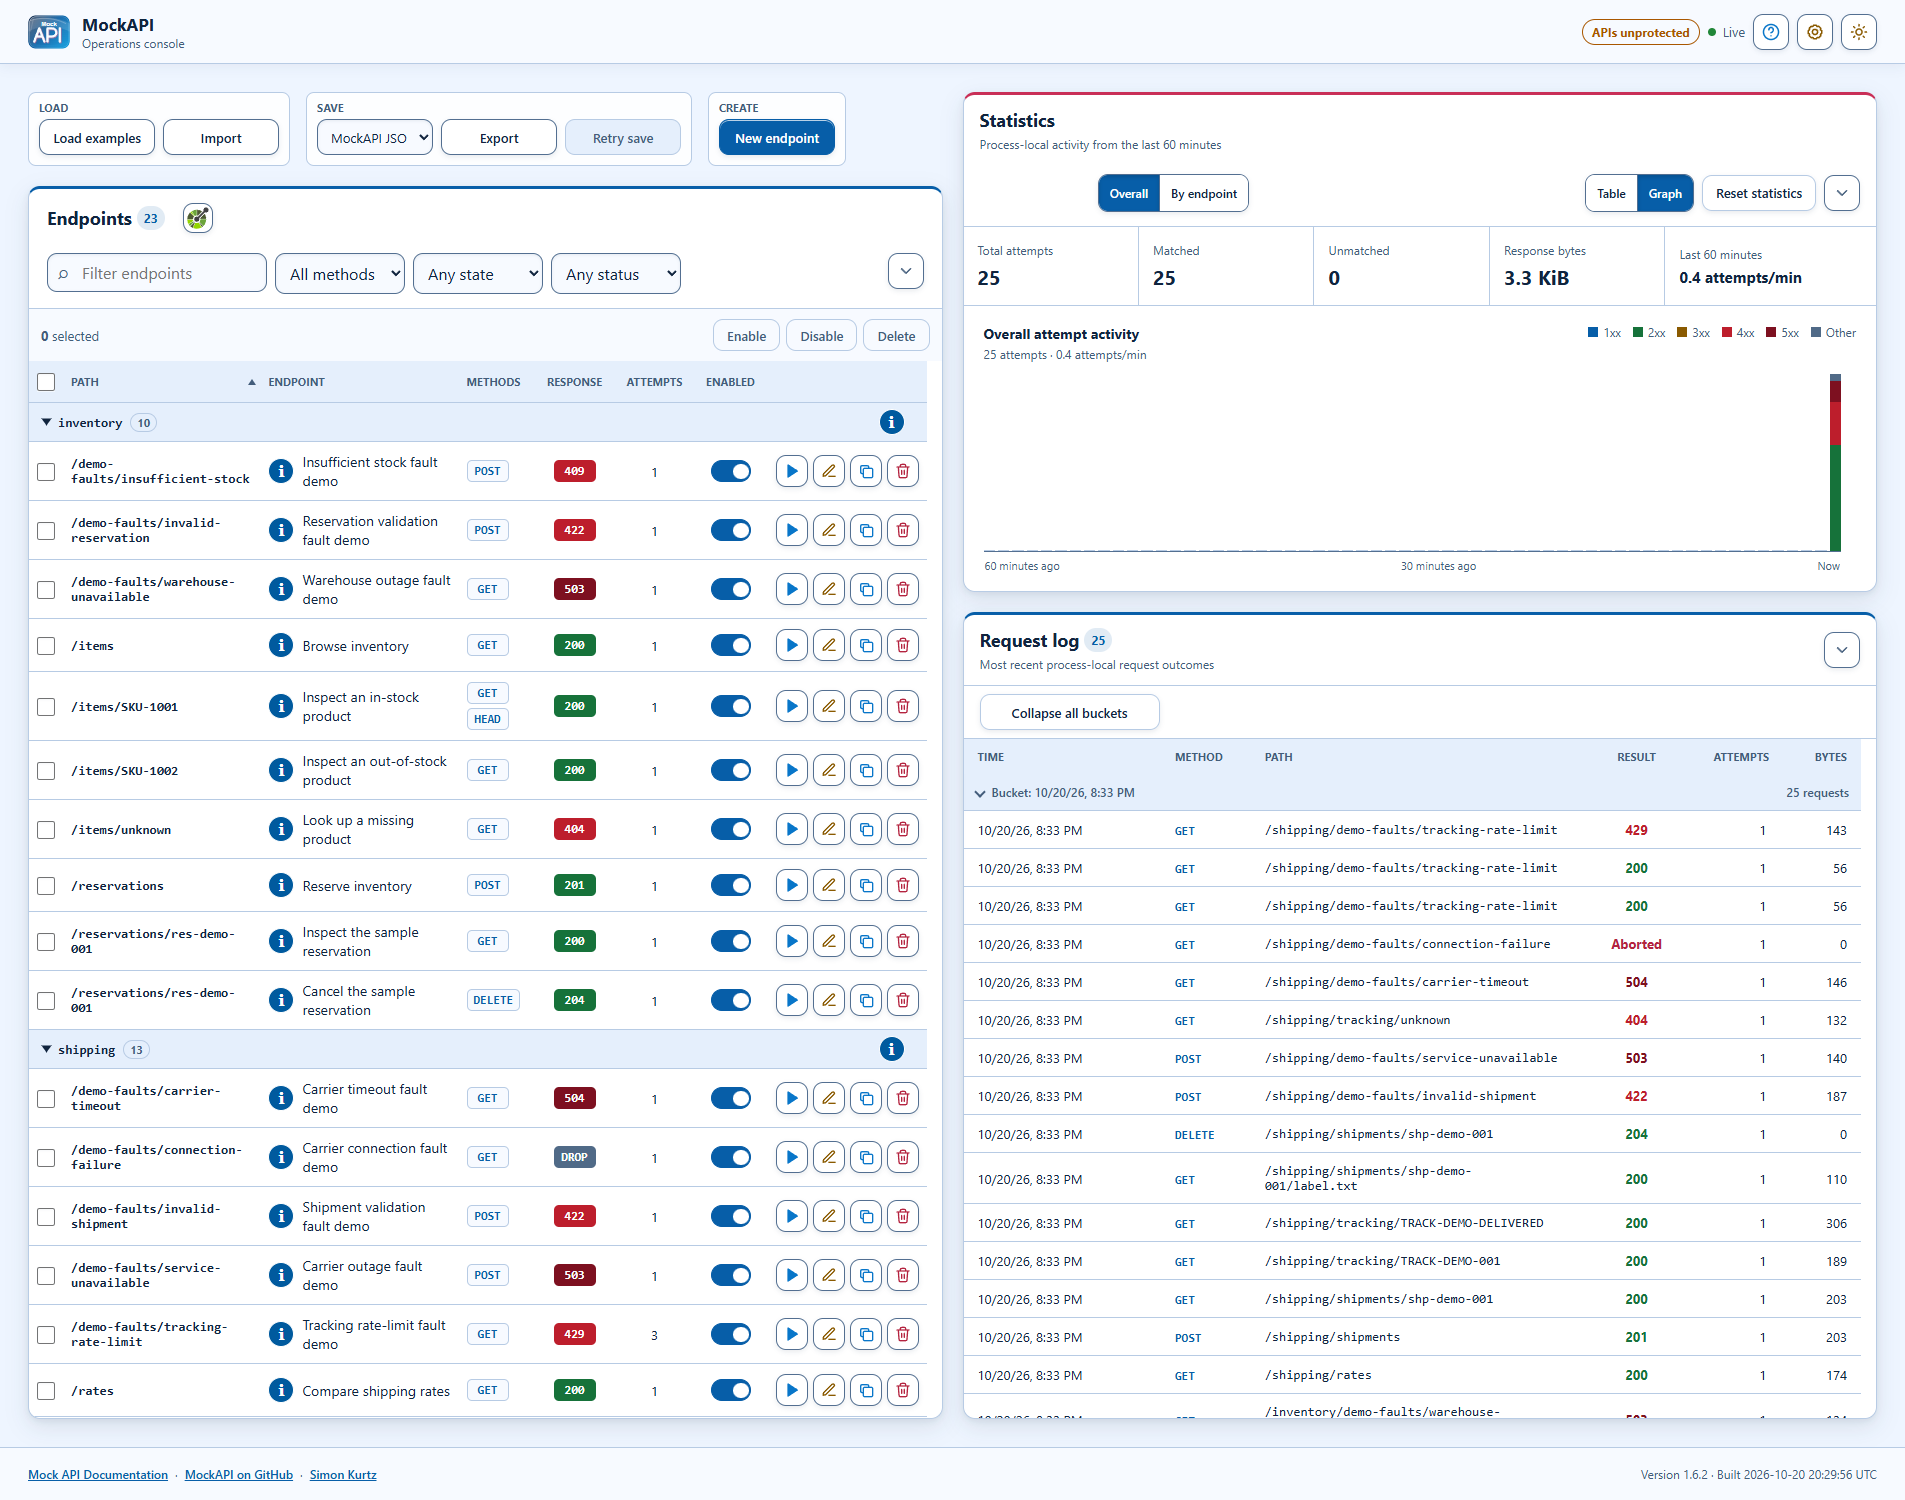
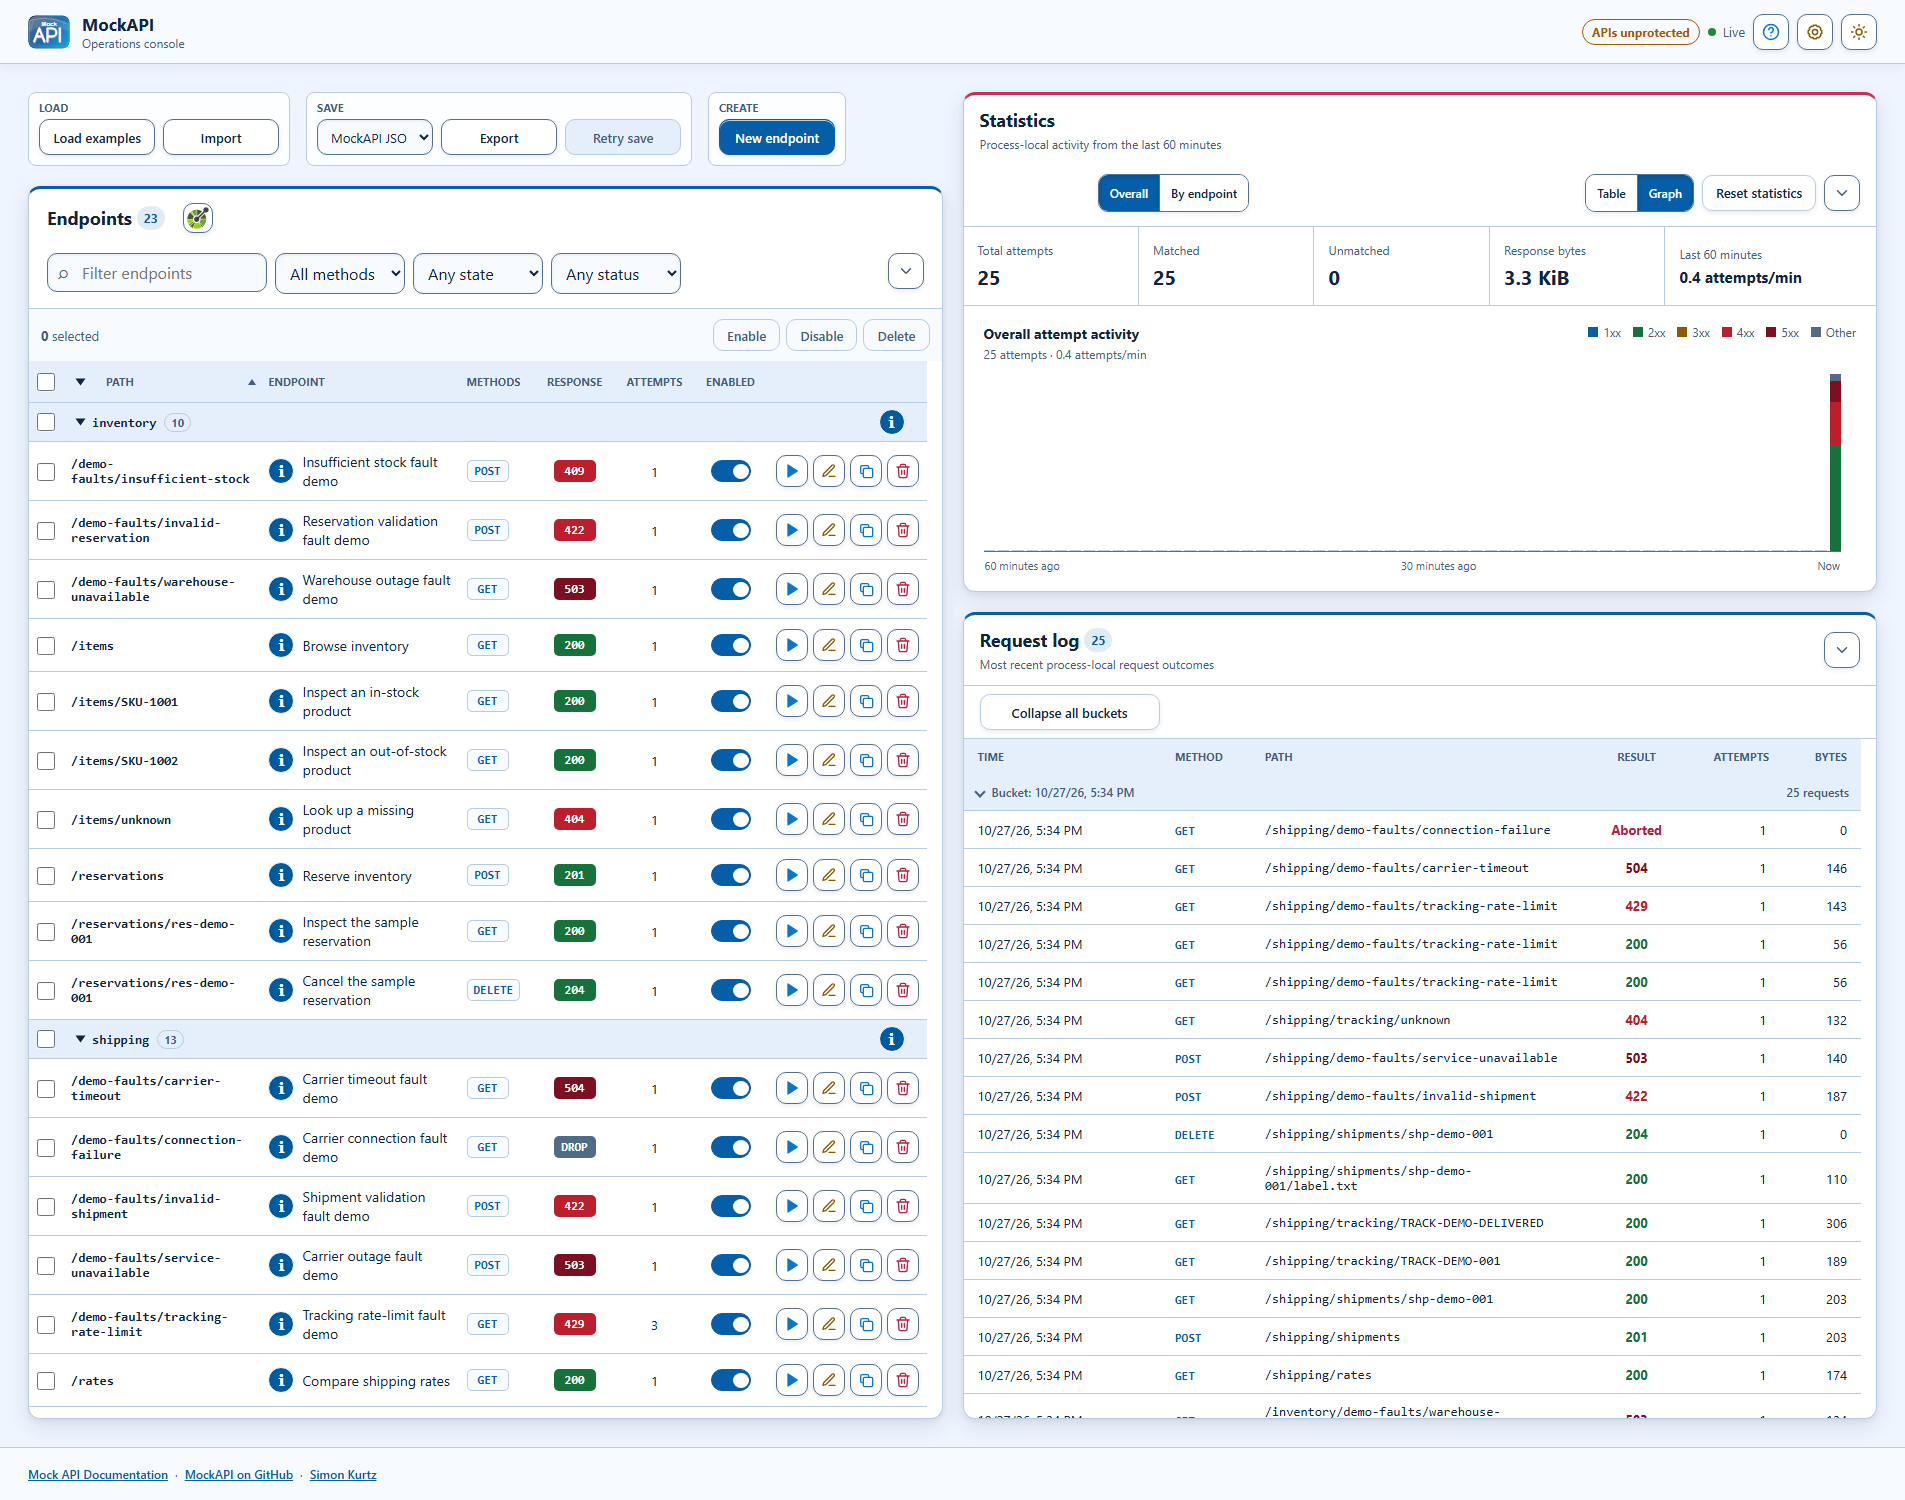
Refresh documentation screenshots

diff --git a/README.md b/README.md
@@ -190,7 +190,7 @@ MockAPI is intentionally narrower than a general-purpose API virtualization plat
 
 The endpoint registry lists every mock with its method, exact path, configured response, and live request count, and offers per-row test, edit, duplicate, and delete actions. Use the checkbox beside an API heading to select or clear all of that API's endpoints matching the current filters, even while its group is collapsed. Partial selections show a mixed checkbox state; selections in other APIs and endpoints hidden by filters are preserved. Selected endpoints can be enabled, disabled, or deleted together.
 
-![Per-endpoint statistics table showing request counts, request rate per minute, last observed status, total response bytes, and a plain-language explanation of each configured response.](docs/images/05-statistics.png)
+![Overall statistics table showing total, matched, and unmatched attempts, failed writes, response status classes, response bytes, and explanations of each measure.](docs/images/05-statistics.png)
 
 Process-local statistics report aggregate and per-endpoint activity — request counts, rate, last status, and response bytes — with a plain-language note explaining each configured response. The dashboard also shows the 100 most recent request outcomes newest first. It retains only timestamp, method, normalized path, endpoint identity, outcome, status, and response byte count; never request or response content, headers, cookies, or query values.
 
@@ -620,7 +620,7 @@ The same workflow applies to every execution model:
 
 The built-in example merge adds missing endpoints, skips identical ones, preserves unrelated configuration, and requires explicit confirmation before replacing a conflicting example.
 
-![Endpoint editor for /inventory/items/SKU-1001 showing its description, GET and HEAD methods, exact path, response behavior, status code, headers, body, enabled toggle, and the apply-endpoint action.](docs/images/03-endpoint-editor.png)
+![Endpoint editor for /inventory/items/SKU-1001 showing its description, selected GET method, exact path, response behavior, status code, headers, body, enabled toggle, and the apply-endpoint action.](docs/images/03-endpoint-editor.png)
 
 The endpoint editor defines everything a response returns: methods, exact path, status code, reason phrase, headers, content type, and body. Valid changes apply immediately.
 
@@ -806,7 +806,9 @@ not shown in these captures. Use the left/right arrow
 buttons, the named view buttons, or the left/right arrow keys within the gallery to switch screenshots.
 Images open at full size in a new tab. The carousel does not advance automatically; without JavaScript,
 all three screenshots remain visible. Captures use only the checked-in example configuration and
-generated local requests, not a running deployment's data.
+generated local requests, not a running deployment's data. Hide the footer's version and build date
+only during screenshot capture so images do not advertise an outdated release; keep that metadata
+visible in the live dashboard.
 
 Gallery screenshots use lossless WebP at their original dimensions, with a combined 160 KiB transfer budget checked by tests. A PNG overview is retained for social previews. Documentation images are published only with the static site, not with the application container.
 

diff --git a/CHANGELOG.md b/CHANGELOG.md
@@ -13,6 +13,8 @@ and application versions follow [Semantic Versioning](https://semver.org/spec/v2
   name, keeping speech-input labels aligned with the displayed text.
 - Corrected stale prerelease and pending-publication guidance, updated container quick starts to
   the published stable image, and aligned Azure import documentation with project-version tags.
+- Refreshed documentation screenshots with current sample definitions and endpoint group controls.
+  Version and build metadata are hidden only in captures; the live dashboard footer is unchanged.
 
 ## [1.10.0] - 2026-10-23
 
